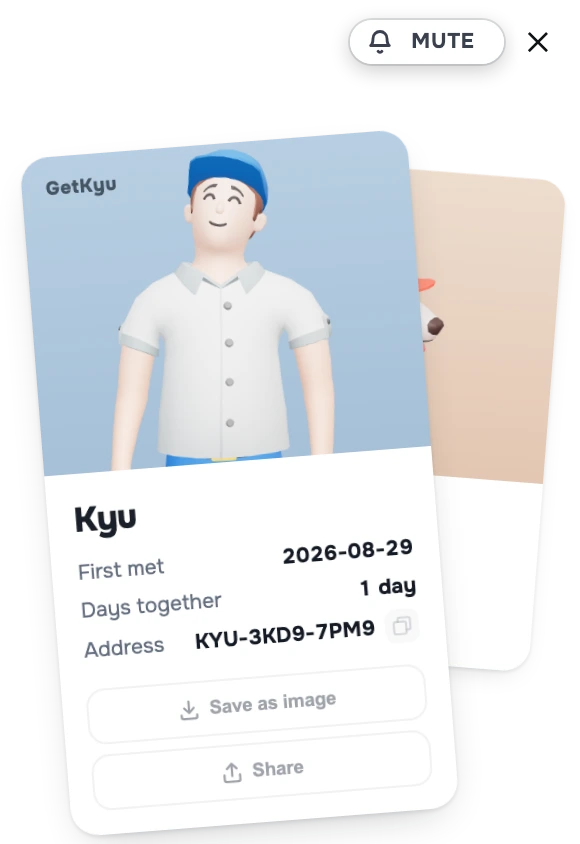
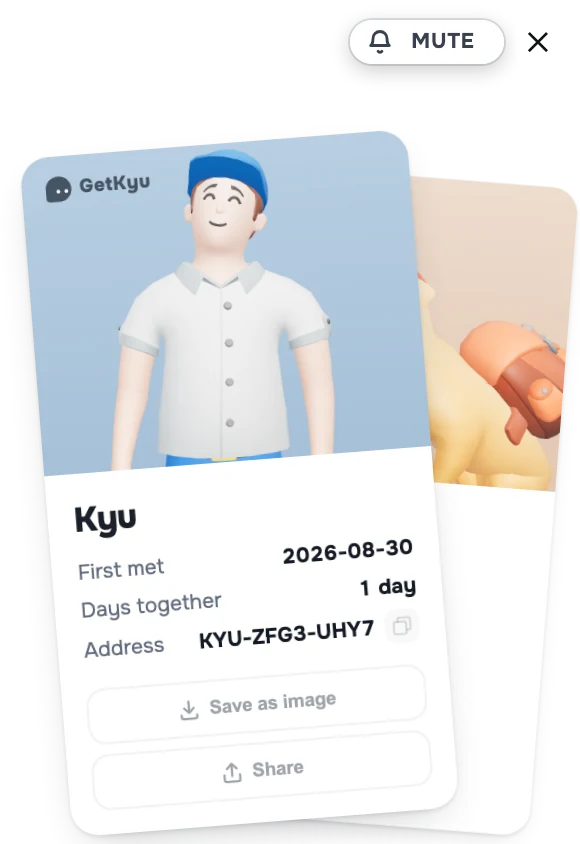
넓은 판도 같이 — 히어로의 둘을 키우고, 뒷면 카드의 흰 띠를 없앴다
창업자: "데스크탑버전도 비슷한 문제가 있으면 고쳐주고 히어로 카피도".

· 히어로 — 제목이 76px 인데 큐는 289px 였다. 부딪힐 것을 먼저 쟀다(위는
  「Almost ready」 밑선 y=70, 아래는 목업 윗선 y=449). 발을 원점으로 잡아
  큐 1.20배·아이 1.28배. 머리 위 16px, 발 밑 17px 남는다.
· 히어로 카피 — 낱말이 오는 방향을 두 판 다 쟀다: 아래에서 위로, 맞다.
  (처음엔 「위에서 아래로」로 나왔는데, 판에 도는 낱말판이 13개라 자가
   **안 도는 것**을 재고 있었다. 글이 실제로 바뀌는 그것만 재도록 고쳤다.)
· 「The two of you」 의 뒷면 카드가 빈 흰 칸이었다 — 앱에서 고친 그것이다.
  이 그림은 실앱을 찍은 것(`ui-idcards`)이라, 앱을 고치고 다시 찍었다.

그리고 굽는 자리와 읽는 자리가 또 갈라져 있었다: 다시 찍으면 brand/web 에는
새것이 생기는데 판은 site/assets/art 를 읽는다. 게다가 판은 png 옆의 **webp**
를 내보내므로, png 만 갈아 끼우면 화면엔 옛 그림이 그대로 뜬다. 둘 다
site-build 가 잇도록 못 박았다.

diff --git a/index.html b/index.html
@@ -695,6 +695,21 @@ html[lang="ko"] #m { word-break: keep-all; }
    하나 있어서("+ 강아지.") 두 줄로 접혔다 — 조각은 한 줄이 약속이다. */
 html[lang="ko"] #shell [data-line] p { white-space: nowrap; }
 
+/* ═══ 넓은 판 — 히어로의 큐와 아이 ═════════════════════════════
+   ★★★★★★ 창업자 2026-08-30: "데스크탑버전도 비슷한 문제가 있으면 고쳐주고".
+     좁은 판에서 고친 그것("히어로 왼쪽에 있는 강아지와 큐를 좀 사이즈를
+     키워주고")이 여기도 그대로 있었다 — 제목이 76px 인데 큐는 289px 라
+     둘이 같은 화면에 있는 물건으로 안 읽혔다.
+   ★ **잰 다음에 키웠다.** 위아래로 부딪힐 것이 정해져 있다:
+       · 위 — 「Almost ready」 단추 밑선 y=70
+       · 아래 — 목업 카드 윗선 y=449 (큐의 발은 지금 y=415)
+     발을 원점으로 잡으면(`50% 100%`) 바닥은 그대로 두고 위로만 자란다.
+     큐 289 × 1.20 = 347, 18px 내려서 발이 433 → 머리가 86. 단추까지 16px 남는다.
+   ★★ 아이는 더 키운다(1.28). 작은 몸이라 같은 배로는 안 커 보이고, 큐보다
+     앞에 서야 둘이 한 장면으로 읽힌다 — 그래서 z-index 를 준다. */
+#shell [data-node-id="23:6546"] { transform: translateY(18px) scale(1.20); transform-origin: 50% 100%; }
+#shell [data-node-id="23:6545"] { transform: translateY(6px) scale(1.28); transform-origin: 50% 100%; z-index: 2; }
+
 /* ═══════════════════════════════════════════════════════════════
    움직임 층 — 창업자(2026-08-29) 의 열다섯 가지.
 
